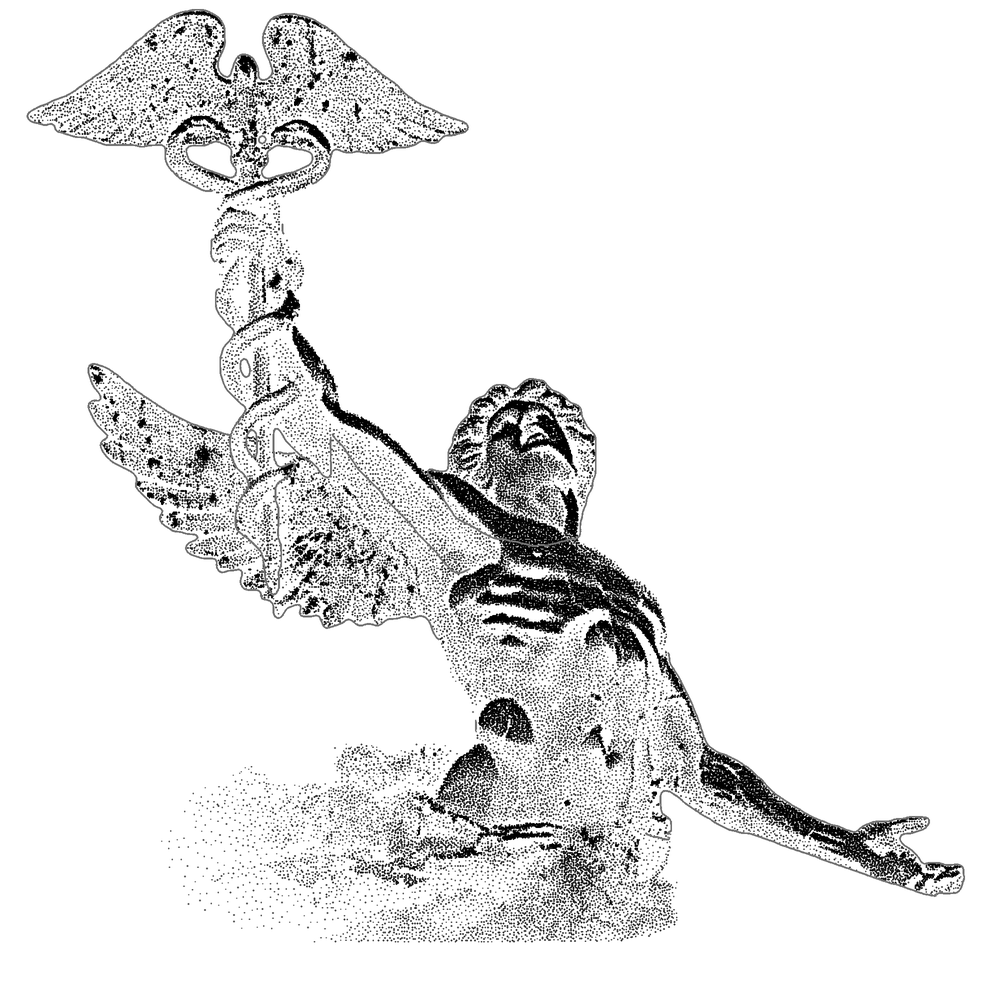
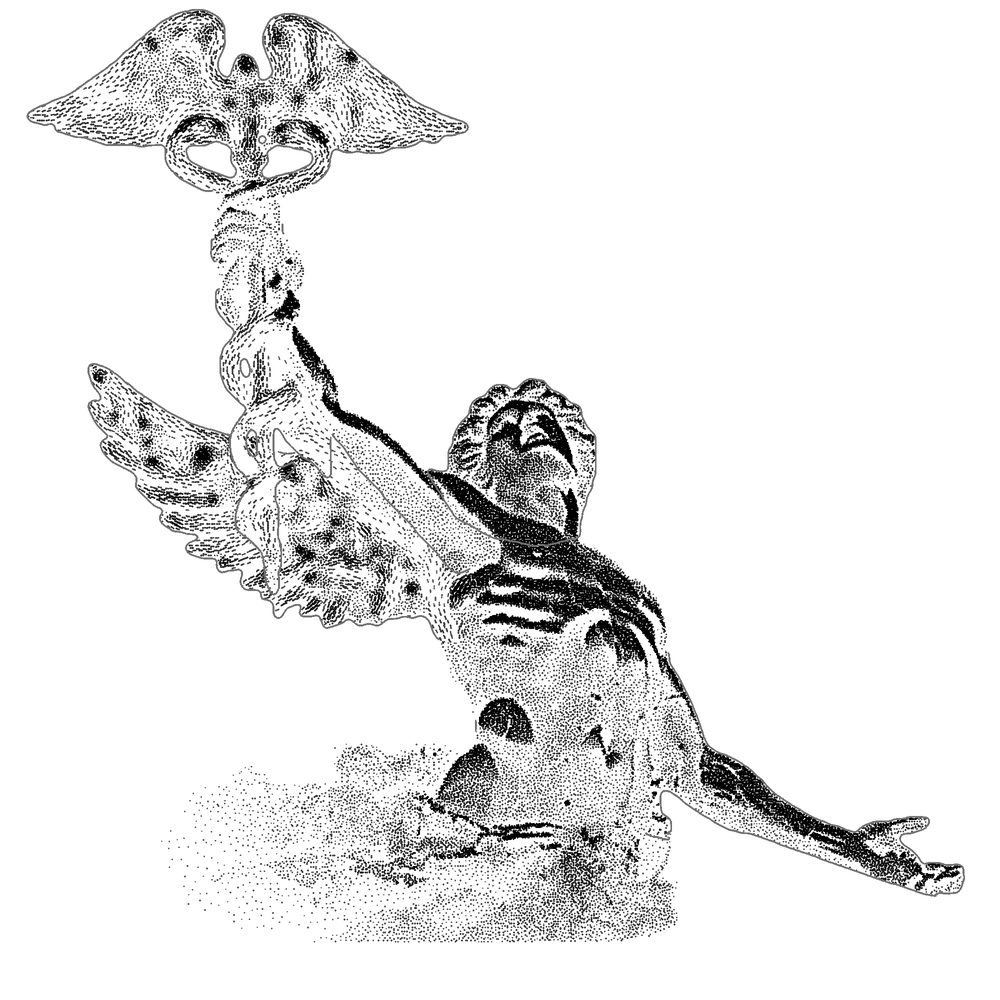
Draw the wings and the caduceus as an engraver would: feathers and coils in strokes, each against its neighbours
The owner wanted the wings and the caduceus massively more detailed. The ink map had let their structure go: the
wing is darker than the statue's mean, so its tone saturated (ink about 0.5 everywhere, its local contrast only 59%
of its variation), and its glitter punched holes that outshouted the gaps between the feathers. Two changes, both
from the avatar itself, nothing invented:

- build.py's feathers(): inside the wing and the caduceus both dot maps keep their broad tone (smoothed over 5 px)
  and take their detail from the image's own local contrast instead: the luminance with its glitter opened away
  (specks under 5 px, which the stars carry), less its local mean over its local spread, about -1 in a gap between
  feathers and +1 on a lit edge whatever the light there (ink 0.4 of it, light 0.2). Each feather now reads against
  its neighbours, its gap inked (on dark paper, unlit) and its edge lit.
- They are stippled in strokes, an engraving's hatching: at load strokes() (exported, unit-tested) takes the dot
  map's structure tensor inside those parts (blurred 3 px of the 448 px map) and, wherever its direction is clear,
  stipple() lets a kept cell seed a stroke of three dots a cell apart along the feathers or the coils, kept against
  a third of the ink so the tone holds. The rows of flight feathers, the coverts, the caduceus's small wings, and the
  snakes' coils now read as drawn lines on every paper.
[…]

Changed region(s): [[0.093, 0.31, 0.465, 0.651], [0.031, 0.0, 0.465, 0.186]]

diff --git a/js/hero.js b/js/hero.js
@@ -151,7 +151,10 @@
   // Threshold stippling: every cell of a res x res grid over the figure (twice as fine when `fine`) keeps a dot when
   // its ink (green channel, bilinear from the size x size map) beats the tiled blue-noise threshold. Output is
   // [x, y, ink] per dot with x, y in figure units (0..1). What else a dot carries is sampled from the other maps.
-  function stipple(rgba, size, noise, noiseSize, res, density, jitter, fine) {
+  // `strokes` (optional, from strokes()): where it gives a direction, a kept cell seeds a short stroke of STROKE dots one
+  // cell apart along it instead of one dot, kept against a third of the ink so the tone holds: an engraving's hatching.
+  var STROKE = 3;
+  function stipple(rgba, size, noise, noiseSize, res, density, jitter, fine, strokes) {
     var n = fine ? res * 2 : res, kept = fine ? density * FINE_INK : density, last = size - 1, scale = last / n;
     var out = new Float32Array(1 << 16), count = 0, at = new Int32Array(n), frac = new Float64Array(n), x, y;
     // where each column (and row) of the grid samples the map: the pixel before it and how far past it
@@ -167,14 +170,19 @@
         var j0 = at[gx], fx = frac[gx], j1 = Math.min(j0 + 1, last);
         var a = (i0 * size + j0) * 4, b = (i0 * size + j1) * 4, c = (i1 * size + j0) * 4, d = (i1 * size + j1) * 4;
         var ink = (rgba[a + 1] * (1 - fx) * (1 - fy) + rgba[b + 1] * fx * (1 - fy) + rgba[c + 1] * (1 - fx) * fy + rgba[d + 1] * fx * fy) / 255;
-        if (ink <= 0 || ink * kept <= noise[(gy % noiseSize) * noiseSize + (gx % noiseSize)] / 255) continue;
+        var dir = strokes ? strokes.angle[Math.round((gy + 0.5) / n * (strokes.size - 1)) * strokes.size + Math.round((gx + 0.5) / n * (strokes.size - 1))] : NaN;
+        var run = dir === dir ? STROKE : 1;
+        if (ink <= 0 || ink * kept / run <= noise[(gy % noiseSize) * noiseSize + (gx % noiseSize)] / 255) continue;
         var k = gy * n + gx;
         var jx = jitter ? (hash(k * 2 + 1) - 0.5) * jitter : 0;
         var jy = jitter ? (hash(k * 2 + 2) - 0.5) * jitter : 0;
-        if (count + 3 > out.length) { var grown = new Float32Array(out.length * 2); grown.set(out); out = grown; }
-        out[count++] = (gx + 0.5 + jx) / n;
-        out[count++] = (gy + 0.5 + jy) / n;
-        out[count++] = ink;
+        if (count + 3 * run > out.length) { var grown = new Float32Array(out.length * 2 + 3 * run); grown.set(out); out = grown; }
+        for (var r = 0; r < run; r++) {
+          var along = r - (run - 1) / 2;
+          out[count++] = (gx + 0.5 + jx + (run > 1 ? Math.cos(dir) * along : 0)) / n;
+          out[count++] = (gy + 0.5 + jy + (run > 1 ? Math.sin(dir) * along : 0)) / n;
+          out[count++] = ink;
+        }
       }
     }
     return out.slice(0, count);
@@ -267,6 +275,45 @@
     var out = new Float32Array(Math.min(limit, found.length) * 3);
     for (i = 0; i < out.length / 3; i++) out.set(found[i], i * 3);
     return out;
+  }
+
+  // The direction of the feathers and the coils, for stippling them in strokes (stipple()): the structure tensor of the
+  // dot map (blurred by `sigma` px, at the depth map's size), its direction of least change, wherever it is clear (the
+  // tensor's coherence over a third) inside the parts named `plumed` (the wing and the caduceus); NaN elsewhere.
+  // Returns { angle: radians per pixel of the depth map, y down, size }.
+  function strokes(map, mapSize, depth, size, parts, plumed, sigma) {
+    var n = size * size, angle = new Float32Array(n).fill(NaN), wanted = {}, any = false, i, x, y;
+    (plumed || []).forEach(function (name) { var k = (parts || []).indexOf(name) + 1; if (k > 0) wanted[k] = true; });
+    var x0 = size, y0 = size, x1 = -1, y1 = -1;
+    for (i = 0; i < n; i++) if (wanted[partOf(depth, i)]) { any = true; x = i % size; y = (i - x) / size; if (x < x0) x0 = x; if (x > x1) x1 = x; if (y < y0) y0 = y; if (y > y1) y1 = y; }
+    if (!any) return { angle: angle, size: size };
+    var r = Math.ceil(sigma * 3), pad = r + 2;
+    x0 = Math.max(0, x0 - pad); y0 = Math.max(0, y0 - pad); x1 = Math.min(size - 1, x1 + pad); y1 = Math.min(size - 1, y1 + pad);
+    var w = x1 - x0 + 1, h = y1 - y0 + 1, tone = new Float32Array(w * h), step = (mapSize - 1) / (size - 1);
+    for (y = 0; y < h; y++) for (x = 0; x < w; x++) tone[y * w + x] = map[(Math.round((y + y0) * step) * mapSize + Math.round((x + x0) * step)) * 4 + 1] / 255;
+    var at = function (a, x, y) { return a[clamp(y, 0, h - 1) * w + clamp(x, 0, w - 1)]; };
+    var xx = new Float32Array(w * h), yy = new Float32Array(w * h), xy = new Float32Array(w * h);
+    for (y = 0; y < h; y++) for (x = 0; x < w; x++) {
+      var gx = (at(tone, x + 1, y) - at(tone, x - 1, y)) / 2, gy = (at(tone, x, y + 1) - at(tone, x, y - 1)) / 2;
+      xx[y * w + x] = gx * gx; yy[y * w + x] = gy * gy; xy[y * w + x] = gx * gy;
+    }
+    var kernel = [], sum = 0, j;
+    for (j = -r; j <= r; j++) { kernel.push(Math.exp(-j * j / (2 * sigma * sigma))); sum += kernel[j + r]; }
+    var blur = function (a) {
+      var tmp = new Float32Array(w * h), out = new Float32Array(w * h), acc;
+      for (y = 0; y < h; y++) for (x = 0; x < w; x++) { acc = 0; for (j = -r; j <= r; j++) acc += at(a, x + j, y) * kernel[j + r]; tmp[y * w + x] = acc / sum; }
+      for (y = 0; y < h; y++) for (x = 0; x < w; x++) { acc = 0; for (j = -r; j <= r; j++) acc += at(tmp, x, y + j) * kernel[j + r]; out[y * w + x] = acc / sum; }
+      return out;
+    };
+    xx = blur(xx); yy = blur(yy); xy = blur(xy);
+    for (y = 0; y < h; y++) for (x = 0; x < w; x++) {
+      var g = (y + y0) * size + x + x0;
+      if (!wanted[partOf(depth, g)]) continue;
+      var a = xx[y * w + x], b = yy[y * w + x], c = xy[y * w + x], spread = Math.sqrt((a - b) * (a - b) + 4 * c * c);
+      if (spread < (a + b) / 3 || !(a + b > 1e-6)) continue;
+      angle[g] = 0.5 * Math.atan2(2 * c, a - b) + Math.PI / 2;
+    }
+    return { angle: angle, size: size };
   }
 
   // The stars of the avatar's sky, which build.py writes into the depth map's blue outside the figure (1 + 254 x a
@@ -437,6 +484,9 @@
   // The statue's outline (edges()): its parts blurred by EDGE_BLUR px of the depth map and traced, a point every
   // EDGE_SPACING CSS px of the drawn figure.
   var EDGE_BLUR = 1.2, EDGE_SPACING = 0.75;
+  // The parts stippled in strokes along their feathers and coils (strokes()), and how far their direction is smoothed,
+  // in px of the depth map.
+  var PLUMED = ["wing", "caduceus"], STROKE_BLUR = 3;
   // STRIKE is how long the opening's strike of lightning lights the figure and runs its ring through it, and PUFF how long
   // a puff of the cursor goes on blowing dots off it, in seconds (the shader's 1.3 and 2.6).
   var STRIKE = 1.3, PUFF = 2.6;
@@ -729,7 +779,10 @@
     // the dot's material in the mode's designed palette (gold, marble, cloud, lightning, glint), moving from
     // its base color to its lit one as the surface turns to the light; marble carries no weight, so it stays ink
     "  int m = int(a_c.r * 5.0 + 0.5);",
-    "  vec3 mat = mix(u_palette[m], u_lit[m], smoothstep(0.15, 0.9, lam));",
+    // gold catches the light on the feathers' edges, which the dot maps draw as the sparse dots of the ink map and the
+    // dense ones of the light map, and sits in their gaps as bronze (below), as well as turning to the light
+    "  float edgeLit = m == 0 ? mix(1.0 - smoothstep(0.1, 0.45, a_p.w), smoothstep(0.45, 0.9, a_p.w), u_positive) : 0.0;",
+    "  vec3 mat = mix(u_palette[m], u_lit[m], max(smoothstep(0.15, 0.9, lam), 0.8 * edgeLit));",
     // on light paper the densest dots of a material lean toward the ink, so gold has bronze in its crevices
     "  mat = mix(mat, u_color, u_deep * smoothstep(0.45, 0.95, a_p.w));",
     // at each turn of the sway a wave of light runs out of the body (u_sheen: its eased progress, whether it runs, its
@@ -1243,7 +1296,9 @@
     // detail, material, sparkle, and way out of the figure from the other maps, packed VERTEX bytes a dot (see
     // initialize).
     function shape(source) {
-      var spots = stipple(source.data, source.width, noise.data, noise.width, res, meta.density, 0.7, fine);
+      // the wing and the caduceus are stippled in strokes along their feathers and coils
+      if (!source.strokes) source.strokes = meta.parts ? strokes(source.data, source.width, relief.data, relief.width, meta.parts, PLUMED, STROKE_BLUR) : null;
+      var spots = stipple(source.data, source.width, noise.data, noise.width, res, meta.density, 0.7, fine, source.strokes);
       // the statue's outline, and the stipple clipped to it, so no stray dot sits outside the line (the clouds of the
       // base keep their soft fade)
       var traced = meta.parts ? edges(relief.data, relief.width, meta.parts, meta.over, EDGE_BLUR, EDGE_SPACING * (relief.width - 1) / place.scale) : null;
@@ -2156,6 +2211,7 @@
     glints: glints,
     skyStars: skyStars,
     edges: edges,
+    strokes: strokes,
     reliefField: reliefField,
     depthNormals: depthNormals,
     sampleColors: sampleColors,

diff --git a/index.html b/index.html
@@ -80,7 +80,7 @@
           <li><a href="/work/?theme=physics-software" data-theme-link="physics-software"><span class="t-label muted">03</span><span class="t-small">Physics software</span><span class="t-label muted num">01</span></a></li>
         </ol>
       </nav>
-      <div class="fig-note"><p class="t-label muted">Fig. 0&nbsp;· Interactive sculpture</p><p class="t-small">My GitHub avatar as <span data-dot-count>89,924</span> dots in five materials, lifted into 3D with a monocular depth map. <span class="fine">Move the cursor to stir them.</span><span class="coarse">Drag sideways to turn it.</span></p><p class="fig-telemetry t-label muted num" data-hero-telemetry aria-hidden="true" hidden></p></div>
+      <div class="fig-note"><p class="t-label muted">Fig. 0&nbsp;· Interactive sculpture</p><p class="t-small">My GitHub avatar as <span data-dot-count>81,465</span> dots in five materials, lifted into 3D with a monocular depth map. <span class="fine">Move the cursor to stir them.</span><span class="coarse">Drag sideways to turn it.</span></p><p class="fig-telemetry t-label muted num" data-hero-telemetry aria-hidden="true" hidden></p></div>
     </div>
   </section>
 

diff --git a/tools/hero/build.py b/tools/hero/build.py
@@ -30,7 +30,7 @@ transformers, diffusers). --color stops after the material map (color.webp); --s
 """
 import hashlib, json, os, sys, urllib.request
 import numpy as np
-from PIL import Image, ImageDraw
+from PIL import Image, ImageDraw, ImageFilter
 
 ROOT = os.path.abspath(os.path.join(os.path.dirname(__file__), '..', '..'))
 OUT = os.path.join(ROOT, 'assets', 'hero')
@@ -43,6 +43,7 @@ INK_LEVELS = 64
 DENSITY = 0.85
 SHARPEN = 0.7                          # the unsharp mask over the whole figure
 STILL_GAIN = (0.965, 1.02)                # how wide the stills' dots are drawn, for the ink map and the light map
+FEATHER_INK, FEATHER_LIGHT = 0.4, 0.2  # how strongly the feathers' local contrast inks the wings and the caduceus (feathers())
 CAVITY_INK, CAVITY_LIGHT = 0.35, 0.45  # how much a hollow darkens the ink, and takes from the light
 CLOUD_INK, CLOUD_LIGHT = 0.62, 0.6     # the clouds' darkest ink on light paper, and their brightest light on dark
 # The core of the body, in the chest (figure units): a sheen's wave of light runs out of the body from here.
@@ -290,7 +291,29 @@ def maps():
     relief = dep * (1 - calm) + calm * (0.64 + 0.28 * blurf(dep, 8.0))
     label = parts(relief, mask, statue)
     relief = rigid(relief, label)
+    ink, light = feathers(ink, light, lum, label, mask)
     return relief, ink, light, mask, statue, detail, own, label
+
+
+def feathers(ink, light, lum, label, mask):
+    """The wings and the caduceus drawn as the avatar shows them: rows of feathers with clear edges, the snakes' coils,
+    the small wings at the top. The engraving's own tone (ink and light below) lets their structure go: the wing is
+    darker than the statue's mean, so its tone saturates, and its glitter outshouts the gaps between the feathers. In
+    those parts the maps keep their broad tone (smoothed over a few pixels) and take their detail from the image's own
+    local contrast instead: the luminance less its local mean, over its local spread (feather()), about -1 in a gap
+    between feathers and +1 on a lit edge whatever the light there, so each feather reads against its neighbours, its
+    gap inked (on dark paper, unlit) and its edge lit."""
+    # (the wing's glitter, specks smaller than the feathers, is opened away first: the stars drawn over it carry it, and
+    # left in it would punch holes in the feathers that scramble their rows)
+    smooth = np.asarray(Image.fromarray(u8(lum)).filter(ImageFilter.MinFilter(5)).filter(ImageFilter.MaxFilter(5)), np.float32) / 255
+    hp = blurf(smooth, 1.0) - blurf(smooth, 7.0)
+    z = np.clip(hp / (np.sqrt(blurf(hp * hp, 7.0)) + 0.02), -2.5, 2.5)
+    plumed = np.isin(label, [PARTS.index('wing') + 1, PARTS.index('caduceus') + 1]).astype(np.float32)
+    w = blurf(plumed, 2.0) * (mask > 0.02)
+    ink = ink * (1 - w) + np.clip(0.9 * blurf(ink, 5.0) - FEATHER_INK * z, 0, 1) * mask * w
+    light = light * (1 - w) + np.clip(blurf(light, 5.0) + FEATHER_LIGHT * z, 0, 1) * mask * w
+    return ink, light
+
 
 
 # The figure's rigid parts, each of which turns as one body (labels 1-7 in PARTS order, 0 outside the figure):
@@ -530,7 +553,10 @@ def void_and_cluster(n=64, sigma=1.9, seed=7):
     return ((rank + 0.5) / (n * n) * 255).astype(np.uint8)
 
 
-def stipple(ink, bn, res):
+def stipple(ink, bn, res, angle=None):
+    """Threshold stippling on a res x res grid, as the engine's stipple(): returns cell positions (x, y; a dot at the
+    cell's centre is at +0.5) and each dot's ink. Where `angle` (M px, from strokes()) gives a direction, a kept cell
+    seeds a stroke of STROKE dots one cell apart along it, kept against a third of the ink."""
     ys, xs = np.mgrid[0:res, 0:res]
     u = (xs + 0.5) / res * (N - 1); v = (ys + 0.5) / res * (N - 1)
     i0, j0 = np.floor(v).astype(int), np.floor(u).astype(int)
@@ -538,8 +564,44 @@ def stipple(ink, bn, res):
     i1, j1 = np.minimum(i0 + 1, N - 1), np.minimum(j0 + 1, N - 1)
     s = ink[i0, j0] * (1 - fx) * (1 - fy) + ink[i0, j1] * fx * (1 - fy) + ink[i1, j0] * (1 - fx) * fy + ink[i1, j1] * fx * fy
     t = bn[ys % bn.shape[0], xs % bn.shape[1]] / 255.0
-    keep = s * DENSITY > t
-    return xs[keep], ys[keep], s[keep]
+    if angle is None:
+        keep = s * DENSITY > t
+        return xs[keep].astype(float), ys[keep].astype(float), s[keep]
+    a = angle[np.round((ys + 0.5) / res * (M - 1)).astype(int), np.round((xs + 0.5) / res * (M - 1)).astype(int)]
+    run = np.where(np.isnan(a), 1, STROKE)
+    keep = (s > 0) & (s * DENSITY / run > t)
+    out = [(xs[keep & (run == 1)].astype(float), ys[keep & (run == 1)].astype(float), s[keep & (run == 1)])]
+    seeds = keep & (run > 1)
+    for k in range(STROKE):
+        along = k - (STROKE - 1) / 2
+        out.append((xs[seeds] + np.cos(a[seeds]) * along, ys[seeds] + np.sin(a[seeds]) * along, s[seeds]))
+    return tuple(np.concatenate([o[i] for o in out]) for i in range(3))
+
+
+# The wing and the caduceus are stippled in strokes along their feathers and coils, as the engine stipples them
+# (strokes() and stipple() in js/hero.js): STROKE dots a stroke, their direction smoothed over STROKE_BLUR px of M.
+PLUMED, STROKE, STROKE_BLUR = ['wing', 'caduceus'], 3, 3.0
+
+
+def strokes(dots, codes, inside):
+    """The direction of the feathers and the coils at M px (radians, y down; NaN elsewhere): the structure tensor of the
+    dot map, its direction of least change wherever its coherence is over a third, inside the plumed parts. Mirrors
+    strokes() in js/hero.js."""
+    label = np.where(inside, np.round(codes / PART_STEP), 0).astype(int)
+    wanted = np.isin(label, [PARTS.index(p) + 1 for p in PLUMED])
+    step = (N - 1) / (M - 1)
+    idx = np.round(np.arange(M) * step).astype(int)
+    tone = dots[idx][:, idx]
+    gx = (np.roll(tone, -1, 1) - np.roll(tone, 1, 1)) / 2
+    gy = (np.roll(tone, -1, 0) - np.roll(tone, 1, 0)) / 2
+    r = int(np.ceil(STROKE_BLUR * 3))
+    kernel = np.exp(-np.arange(-r, r + 1) ** 2 / (2 * STROKE_BLUR ** 2)); kernel /= kernel.sum()
+    blur = lambda a: np.apply_along_axis(lambda c: np.convolve(np.pad(c, r, mode='edge'), kernel, 'valid'), 0,
+                                          np.apply_along_axis(lambda c: np.convolve(np.pad(c, r, mode='edge'), kernel, 'valid'), 1, a))
+    a, b, c = blur(gx * gx), blur(gy * gy), blur(gx * gy)
+    spread = np.sqrt((a - b) ** 2 + 4 * c * c)
+    clear = wanted & (spread >= (a + b) / 3) & (a + b > 1e-6)
+    return np.where(clear, 0.5 * np.arctan2(2 * c, a - b) + np.pi / 2, np.nan)
 
 
 def lossless(a, name):
@@ -615,8 +677,8 @@ def still(levels, bn, dep, meta, suffix, gain, edge):
     One still per dot map: still.webp and preview.webp from the ink map, still-dark.webp and preview-dark.webp from the
     light map, for dark paper."""
     res = 860
-    sx, sy, sv = stipple(levels, bn, res)
     relief = np.asarray(Image.open(os.path.join(OUT, 'depth.webp')).convert('RGB'))
+    sx, sy, sv = stipple(levels, bn, res, strokes(levels, relief[..., 2].astype(int), relief[..., 0] > 0))
     lines, field = outline(relief[..., 2].astype(int), relief[..., 0] > 0, 0.2)
     # the stipple clipped to the outline: a dot outside the statue's blurred parts is dropped, but in the base
     fu, fv = np.clip((sx + 0.5) / res * (M - 1), 0, M - 1), np.clip((sy + 0.5) / res * (M - 1), 0, M - 1)

diff --git a/docs/design-spec.md b/docs/design-spec.md
@@ -139,6 +139,7 @@ Arrows appear only where they carry meaning: ↗ marks a link that leaves the si
 - **Render.**
   - One draw call of round anti-aliased dots. Dot size follows depth and Lambert light from the upper left, which is what makes it read as a sculpted object rather than a flat dither. Each dot's sprite is half a device pixel wider than the dot, so most of the soft edge of a small dot is drawn instead of clipped: without it a one-pixel dot lost a third of its weight, and the drawn figure looked paler than the still it replaces (a whole pixel matched the still too, but cost a tenth of the frame rate under SwiftShader). The varyings are flat: a point's fragments share them.
   - Ink is black on light, warm white on dark, red in Gear Two, until the colours arrive; then it moves from the mode's fill to its key with the lighting term (`u_tone`, §5). DPR is capped at 2.
+  - **The wing and the caduceus.** Their feathers, the snakes' coils, and the small wings at the top are drawn as the avatar shows them, never invented. The engraving's tone let their structure go (the wing is darker than the statue's mean, so its ink saturated, and its glitter outshouted the gaps between the feathers), so in those parts (`feathers()` in `build.py`) both dot maps keep their broad tone, smoothed over 5 px, and take their detail from the image's own local contrast: the luminance with its glitter opened away (specks under 5 px, which the stars carry instead), less its local mean over its local spread, about −1 in a gap between feathers and +1 on a lit edge whatever the light there, so each feather reads against its neighbours (ink 0.4 of it, light 0.2). And they are stippled in strokes, an engraving's hatching: at load `strokes()` (exported and unit-tested) takes the dot map's structure tensor inside those parts (blurred 3 px of the 448 px map) and, wherever its direction is clear, `stipple()` lets a kept cell seed a stroke of three dots a cell apart along the feathers or the coils instead of one dot, kept against a third of the ink so the tone holds. Gold catches the light on the feathers' edges (the sparse dots of the ink map, the dense ones of the light map) as well as where it turns to the light. A finer grid on 1× screens was left out: its dots would be smaller than a pixel and flicker as the figure turns. The stills stipple the same strokes (`strokes()` in `build.py`).
   - **Outline.** The statue has a clear, continuous edge instead of ending wherever its stipple thins out (`edges`, exported and unit-tested). The depth map's blue names each pixel's part inside the figure (its number in `hero.json`'s `parts` times 32, less 16 in the soft fringe outside the statue's edge; outside the figure it still holds the sky's stars). At load each part but the base is blurred (1.2 px of the 448 px map) and traced at its half level by marching squares; a point of the trace is kept where what lies just beyond it is the sky, or a part it lies in front of (`over` in `hero.json`: the raised arm and the caduceus over the wing, the outstretched arm before the clouds, the head over the raised arm and the chest), so a part that grows out of its neighbour has no line and the clouds keep their soft fade. The trace is resampled every 0.75 CSS px of the drawn figure (about 4,800 points at 1440 × 900) and drawn as a line of points after the dots, flagged in `a_w`'s spare byte, each at the relief's depth so it turns with the figure: on white paper in the dots' own colour at full strength, a little finer than a dot; on dark paper and in the gears a fine rim of light at 55%. The stipple is clipped to it: a dot outside the statue's blurred parts is dropped, but in the base. The line holds its place in the wind (no gust, breeze, drift, or puff moves it; dust leaves from the dots beside it), is drawn from the first frame in the figure's plain ink, and is drawn into the stills the same way (`outline()` in `build.py`).
   - **Glints.** The avatar's own star glints, found at load in the color map's sparkle (`glints`, exported and unit-tested): its local peaks that are round rather than drawn out along a highlight's edge (over two pixels each way the weaker curvature is at least a third of the stronger), on the wings, the caduceus, the rubble, the lightning, and the clouds, never on the marble, where a highlight is light on skin, nor in the hair or on a hand, or within eight pixels outside the figure, where the sky's stars are; the strongest 260, 108 in the shipped map. Each is a vertex of its own after the dots, flagged in the spare byte of `a_e`, at the relief's depth (a little behind the figure in the sky), drawn as an eight-point star: thin spikes, long on the axes and short on the diagonals, and a soft glow in the edge colour around a heart in the heart colour (`u_glint`). They are clearly visible but never dominant: 3.5–11.5 times a dot across (at most about 12 px at 1440 × 900), at least 55% strong, and a handful of the strongest (one in five of those at full sparkle, chosen by where they are) carry spikes 80% longer; on white paper the rays are drawn at least 0.9 px wide, since a dark line half a pixel wide fades to nothing, and the glow takes the heart's colour, so a star lights the gold around it. They twinkle each on its own slow rhythm, brighten as a shine passes, keep 80% of their light in Gear Two, arrive with the colours (before that a glint draws nothing, so the opening's still figure is exactly the still it replaces), and stay put in the wind. None sits in the hair or on a hand: the head's and the hands' ellipses (`features` in `hero.json`, `FEATURES` in `build.py`) are left out.
   - **The sky's stars.** On dark paper and in Gear Two (`u_sky`), the stars of the avatar's sky (`skyStars`, exported and unit-tested, reads them from the depth map's blue) come out around the figure: glint vertices of their own after the figure's, flagged in the weight byte (`a_c.g`), far behind it (at depth 0.15, so they shift against the statue as it turns), smaller than its glints (1.6–5 times a dot across), twinkling slowly. Like every light they come with the colours (`u_tint`), so the opening's first shine brings them out as it runs out of the body; white paper has none, and without the color map neither does dark.

diff --git a/README.md b/README.md
@@ -58,7 +58,8 @@ avatar).
   avatar does, a warm key where the stone faces the light and a cool fill where it turns away. The statue has a clear
   edge: each part's outline is traced at load from the parts the depth map's blue names and drawn as a fine line of
   points, ink on white and a soft rim of light on dark, with the stipple clipped to it (the clouds keep their soft fade).
-  The avatar's own star glints (the round sparkles on its wings, caduceus, rubble, and lightning, found in the color map at load, none
+  The wing and the caduceus are drawn in strokes along their feathers and coils, an engraving's hatching, from the
+  image's own local contrast. The avatar's own star glints (the round sparkles on its wings, caduceus, rubble, and lightning, found in the color map at load, none
   in the hair or on a hand) twinkle over it as eight-point stars, clearly visible and never dominant; on dark paper and in Gear Two the
   stars of the avatar's sky come out around it too, far behind (read from the depth map's blue channel). The cursor stirs the dots like a hand through dust: they
   turn about it in an eddy and are dragged along with it, and a quick sweep across the figure blows off the dots it
